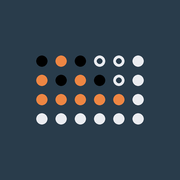
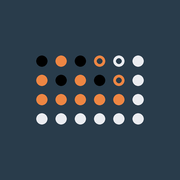
A logó B-hez tartozó két üres karikája narancs
Claude-Session: https://claude.ai/code/session_01H1wmoU7kz5P52YL5bgJD7D

Changed region(s): [[0.6111, 0.4167, 0.6944, 0.5], [0.5, 0.3056, 0.5833, 0.3889]]

diff --git a/tokens.css b/tokens.css
@@ -1,4 +1,4 @@
 /* Forrás: https://laszlobiri.com/design-system/tokens.css (laszlobiri design system). Ne ezt szerkeszd, hanem a design systemet. */
-:root, [data-theme="slate"] { --brand-slate: #293c4b; --brand-black: #000000; --brand-orange: #ee8643; --brand-mist: #eaecf0; --bg: #293c4b; --bg-raised: #324858; --fg: #eaecf0; --fg-muted: #a9b6c1; --accent: #ee8643; --accent-text: #f19559; --line: #3d5365; --mark-l: #eaecf0; --mark-b: #ee8643; --mark-ring: #eaecf0; --mark-filler: #000000; }
-[data-theme="light"] { --brand-slate: #293c4b; --brand-black: #000000; --brand-orange: #ee8643; --brand-mist: #eaecf0; --bg: #eaecf0; --bg-raised: #ffffff; --fg: #14202a; --fg-muted: #4a5a68; --accent: #ee8643; --accent-text: #a84f14; --line: #cfd5dc; --mark-l: #000000; --mark-b: #ee8643; --mark-ring: #293c4b; --mark-filler: #293c4b; }
+:root, [data-theme="slate"] { --brand-slate: #293c4b; --brand-black: #000000; --brand-orange: #ee8643; --brand-mist: #eaecf0; --bg: #293c4b; --bg-raised: #324858; --fg: #eaecf0; --fg-muted: #a9b6c1; --accent: #ee8643; --accent-text: #f19559; --line: #3d5365; --mark-l: #eaecf0; --mark-b: #ee8643; --mark-ring: #ee8643; --mark-filler: #000000; }
+[data-theme="light"] { --brand-slate: #293c4b; --brand-black: #000000; --brand-orange: #ee8643; --brand-mist: #eaecf0; --bg: #eaecf0; --bg-raised: #ffffff; --fg: #14202a; --fg-muted: #4a5a68; --accent: #ee8643; --accent-text: #a84f14; --line: #cfd5dc; --mark-l: #000000; --mark-b: #ee8643; --mark-ring: #ee8643; --mark-filler: #293c4b; }
 :root { --space-1: 4px; --space-2: 8px; --space-3: 12px; --space-4: 16px; --space-6: 24px; --space-8: 32px; --space-12: 48px; --space-16: 64px; --radius-sm: 6px; --radius-md: 12px; --radius-lg: 20px; --radius-full: 9999px; --font-sans: "Space Grotesk", system-ui, sans-serif; }

diff --git a/sw.js b/sw.js
@@ -1,5 +1,5 @@
 // Egyszerű offline gyorsítótár: az app héja induláskor mentődik.
-const CACHE = 'bevasarlo-v2';
+const CACHE = 'bevasarlo-v3';
 const ASSETS = ['./', 'index.html', 'manifest.webmanifest', 'icon.svg', 'icon-192.png', 'icon-512.png', 'icon-180.png', 'tokens.css'];
 
 self.addEventListener('install', e => {
